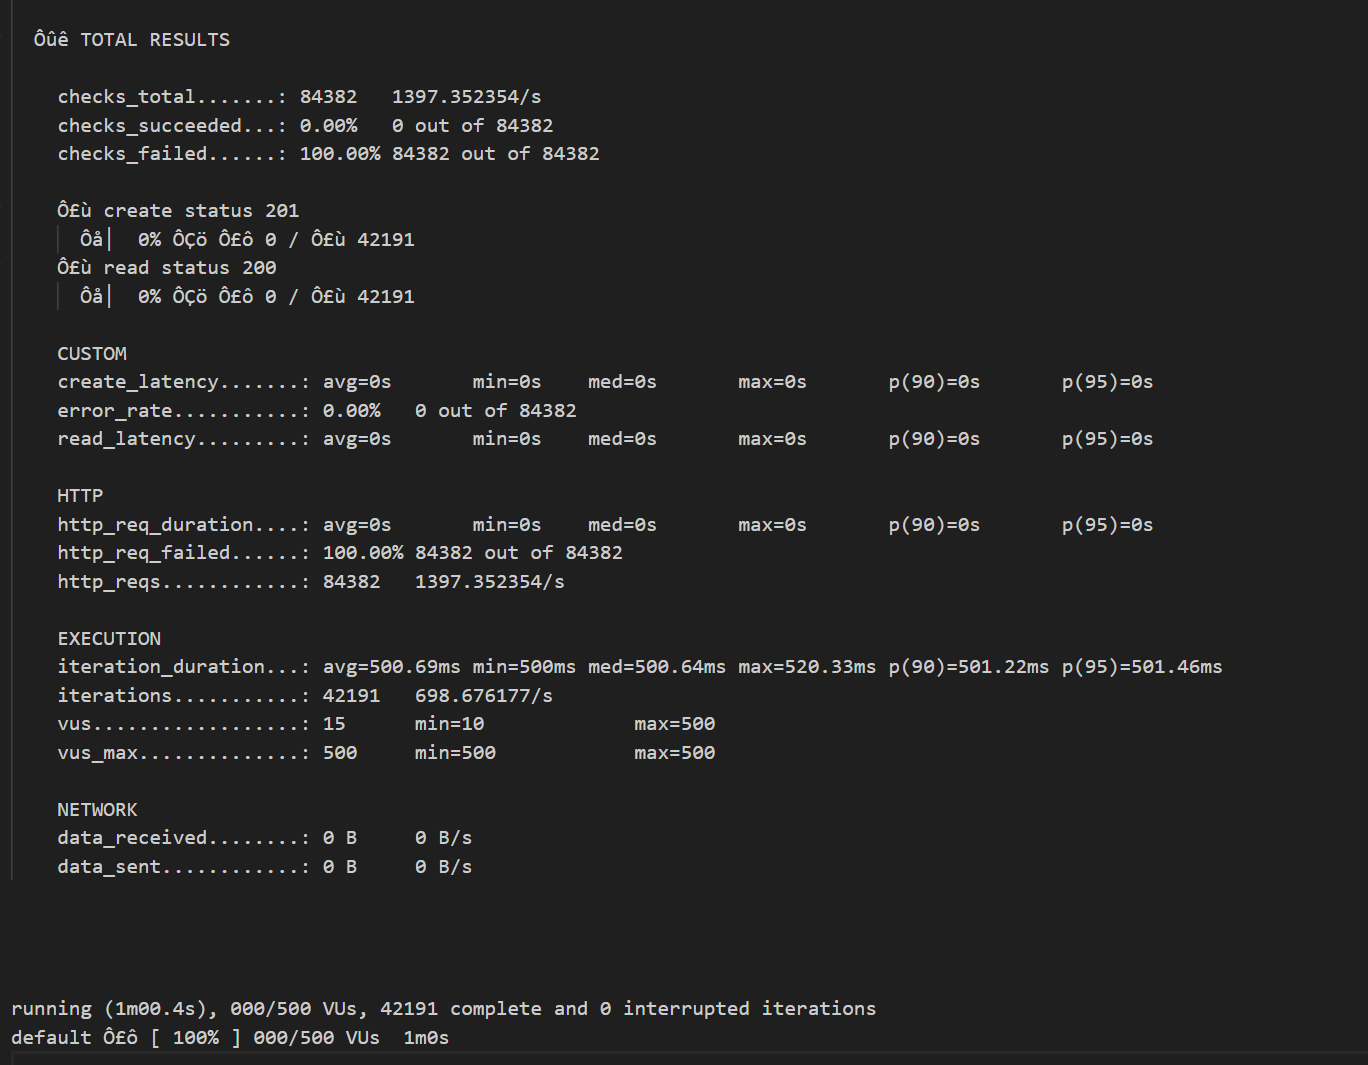
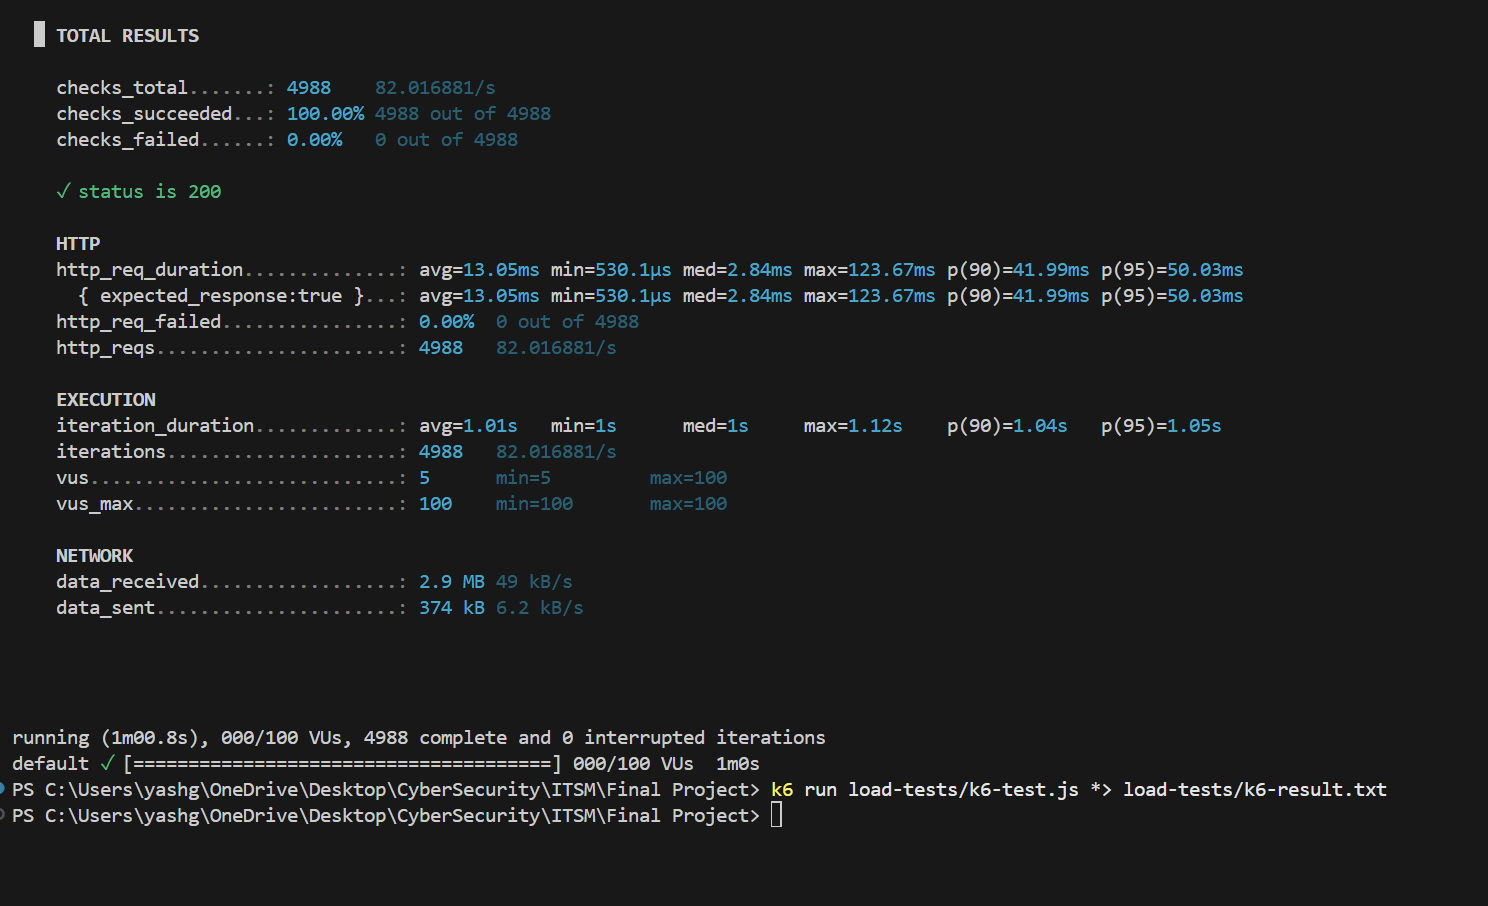
k6 load testing

diff --git a/tests/k6-test.js b/tests/k6-test.js
@@ -14,7 +14,7 @@ export const options = {
 };
 
 export default function () {
-  const res = http.get("http://127.0.0.1:65429/");
+  const res = http.get("http://127.0.0.1:60340/");
 
   check(res, {
     "status is 200": (r) => r.status === 200,